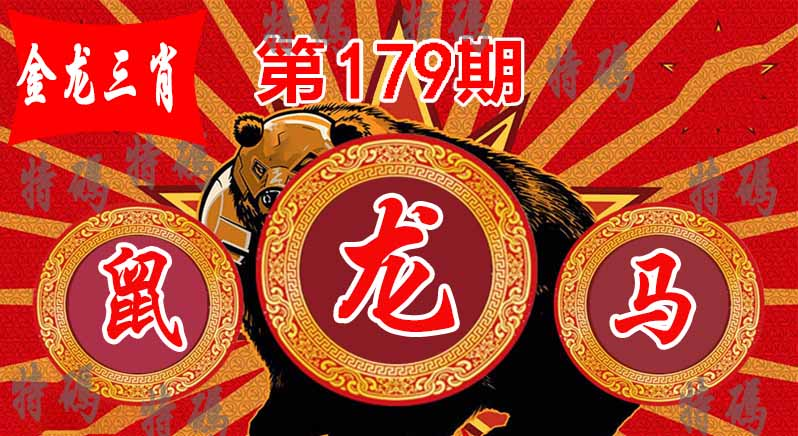
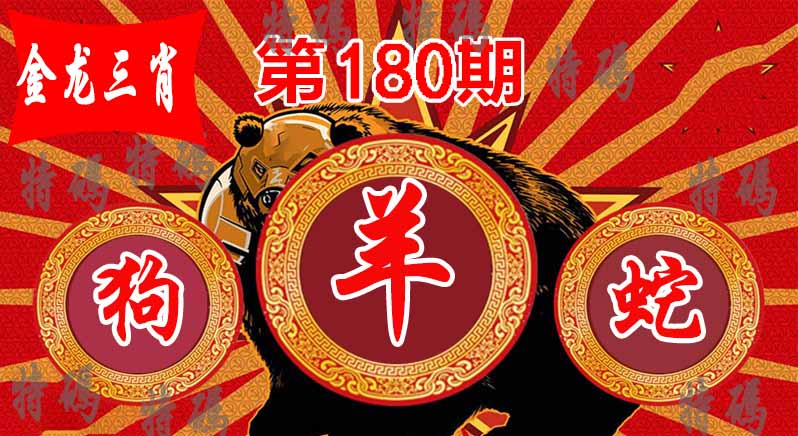
Update:  2024.06.28 13:20:38

diff --git a/Script/Src/xjw/3q4x8m.js b/Script/Src/xjw/3q4x8m.js
@@ -80,6 +80,314 @@ document.writeln("");
 
 
 
+document.writeln("	<!----开始---->    ");
+document.writeln("	<table border=\'1\' width=\'100%\' cellpadding=\'0\' height=\'83\' cellspacing=\'0\' bgcolor=\'#FFFFFF\' bordercolor=\'#D4D4D4\' style=\'border-collapse: collapse\'>");
+document.writeln("		<tr>");
+document.writeln("		<td  height=\'11\' align=\'center\' bgcolor=\'#FFFFFF\' width=\'10%\'>");
+document.writeln("		<b><font face=\'微软雅黑\'>177期</font></b></td>");
+document.writeln("		<td align=\'center\' bgcolor=\'#FFFFFF\' width=\'65%\' rowspan=\'3\'>");
+document.writeln("		<strong>");
+document.writeln("		<font face=\'微软雅黑\' size=\'5\' color=\'#FF0000\'>猴兔龙狗</font>");
+document.writeln("		<font face=\'微软雅黑\' color=\'#FF0000\'>（21.33.02.14.13.25.07.31）</span></font></strong><font face=\'微软雅黑\' color=\'#FF0000\'></span></font></td>");
+document.writeln("		<td  height=\'11\' align=\'center\' bgcolor=\'#FFFFFF\' width=\'10%\'>");
+document.writeln("		<font face=\'微软雅黑\'>开:马11</font></td>");
+document.writeln("		</tr>");
+document.writeln("	<tr>");
+document.writeln("		<td  height=\'11\' align=\'center\' bgcolor=\'#FFFFFF\' width=\'10%\'>");
+document.writeln("		<b style=\'padding: 0px; margin: 0px; word-wrap: break-word;\'>");
+document.writeln("		<font face=\'微软雅黑\' style=\'word-wrap: break-word; margin: 0px; padding: 0px\'>");
+document.writeln("		176期</font></b></td>");
+document.writeln("		<td  height=\'11\' align=\'center\' bgcolor=\'#FFFFFF\' width=\'10%\'>");
+document.writeln("		<font face=\'微软雅黑\'>开:虎03</font></td>");
+document.writeln("		</tr>");
+document.writeln("	<tr>");
+document.writeln("		<td align=\'center\' bgcolor=\'#FFFFFF\' width=\'10%\' style=\'height: 26px\'>");
+document.writeln("		<b style=\'padding: 0px; margin: 0px; word-wrap: break-word;\'>");
+document.writeln("		<font face=\'微软雅黑\' style=\'word-wrap: break-word; margin: 0px; padding: 0px\'>");
+document.writeln("		175期</font></b></td>");
+document.writeln("		<td align=\'center\' bgcolor=\'#FFFFFF\' width=\'10%\' style=\'height: 26px\'>");
+document.writeln("		<font face=\'微软雅黑\'>开:牛40</font></td>");
+document.writeln("		</tr>");
+document.writeln("		</table>");
+document.writeln("		");
+document.writeln("<!----结束----> ");
+document.writeln("");
+document.writeln("");
+
+
+
+
+
+
+document.writeln("	<!----开始---->    ");
+document.writeln("	<table border=\'1\' width=\'100%\' cellpadding=\'0\' height=\'83\' cellspacing=\'0\' bgcolor=\'#FFFFFF\' bordercolor=\'#D4D4D4\' style=\'border-collapse: collapse\'>");
+document.writeln("		<tr>");
+document.writeln("		<td  height=\'11\' align=\'center\' bgcolor=\'#FFFFFF\' width=\'10%\'>");
+document.writeln("		<b><font face=\'微软雅黑\'>174期</font></b></td>");
+document.writeln("		<td align=\'center\' bgcolor=\'#FFFFFF\' width=\'65%\' rowspan=\'3\'>");
+document.writeln("		<strong>");
+document.writeln("		<font face=\'微软雅黑\' size=\'5\' color=\'#FF0000\'>虎兔羊猪</font>");
+document.writeln("		<font face=\'微软雅黑\' color=\'#FF0000\'>（06.15.02.14.10.22.30.42）</span></font></strong><font face=\'微软雅黑\' color=\'#FF0000\'></span></font></td>");
+document.writeln("		<td  height=\'11\' align=\'center\' bgcolor=\'#FFFFFF\' width=\'10%\'>");
+document.writeln("		<font face=\'微软雅黑\'>开:蛇48</font></td>");
+document.writeln("		</tr>");
+document.writeln("	<tr>");
+document.writeln("		<td  height=\'11\' align=\'center\' bgcolor=\'#FFFFFF\' width=\'10%\'>");
+document.writeln("		<b style=\'padding: 0px; margin: 0px; word-wrap: break-word;\'>");
+document.writeln("		<font face=\'微软雅黑\' style=\'word-wrap: break-word; margin: 0px; padding: 0px\'>");
+document.writeln("		173期</font></b></td>");
+document.writeln("		<td  height=\'11\' align=\'center\' bgcolor=\'#FFFFFF\' width=\'10%\'>");
+document.writeln("		<font face=\'微软雅黑\'>开:龙49</font></td>");
+document.writeln("		</tr>");
+document.writeln("	<tr>");
+document.writeln("		<td align=\'center\' bgcolor=\'#FFFFFF\' width=\'10%\' style=\'height: 26px\'>");
+document.writeln("		<b style=\'padding: 0px; margin: 0px; word-wrap: break-word;\'>");
+document.writeln("		<font face=\'微软雅黑\' style=\'word-wrap: break-word; margin: 0px; padding: 0px\'>");
+document.writeln("		172期</font></b></td>");
+document.writeln("		<td align=\'center\' bgcolor=\'#FFFFFF\' width=\'10%\' style=\'height: 26px\'>");
+document.writeln("		<font face=\'微软雅黑\'>开:鸡32</font></td>");
+document.writeln("		</tr>");
+document.writeln("		</table>");
+document.writeln("		");
+document.writeln("<!----结束----> ");
+document.writeln("");
+document.writeln("");
+
+
+
+
+
+
+document.writeln("	<!----开始---->    ");
+document.writeln("	<table border=\'1\' width=\'100%\' cellpadding=\'0\' height=\'83\' cellspacing=\'0\' bgcolor=\'#FFFFFF\' bordercolor=\'#D4D4D4\' style=\'border-collapse: collapse\'>");
+document.writeln("		<tr>");
+document.writeln("		<td  height=\'11\' align=\'center\' bgcolor=\'#FFFFFF\' width=\'10%\'>");
+document.writeln("		<b><font face=\'微软雅黑\'>171期</font></b></td>");
+document.writeln("		<td align=\'center\' bgcolor=\'#FFFFFF\' width=\'65%\' rowspan=\'3\'>");
+document.writeln("		<strong>");
+document.writeln("		<font face=\'微软雅黑\' size=\'5\' color=\'#FF0000\'>蛇狗<span style='background-color: #FFFF00\'>猴</span>鼠</span></font>");
+document.writeln("		<font face=\'微软雅黑\' color=\'#FF0000\'>（36.48.07.31.09.21.05.41）</span></font></strong><font face=\'微软雅黑\' color=\'#FF0000\'></span></font></td>");
+document.writeln("		<td  height=\'11\' align=\'center\' bgcolor=\'#FFFFFF\' width=\'10%\'>");
+document.writeln("		<font face=\'微软雅黑\'>开:牛16</font></td>");
+document.writeln("		</tr>");
+document.writeln("	<tr>");
+document.writeln("		<td  height=\'11\' align=\'center\' bgcolor=\'#FFFFFF\' width=\'10%\'>");
+document.writeln("		<b style=\'padding: 0px; margin: 0px; word-wrap: break-word;\'>");
+document.writeln("		<font face=\'微软雅黑\' style=\'word-wrap: break-word; margin: 0px; padding: 0px\'>");
+document.writeln("		170期</font></b></td>");
+document.writeln("		<td  height=\'11\' align=\'center\' bgcolor=\'#FFFFFF\' width=\'10%\'>");
+document.writeln("		<font face=\'微软雅黑\'>开:羊10</font></td>");
+document.writeln("		</tr>");
+document.writeln("	<tr>");
+document.writeln("		<td align=\'center\' bgcolor=\'#FFFFFF\' width=\'10%\' style=\'height: 26px\'>");
+document.writeln("		<b style=\'padding: 0px; margin: 0px; word-wrap: break-word;\'>");
+document.writeln("		<font face=\'微软雅黑\' style=\'word-wrap: break-word; margin: 0px; padding: 0px\'>");
+document.writeln("		169期</font></b></td>");
+document.writeln("		<td align=\'center\' bgcolor=\'#FFFFFF\' width=\'10%\' style=\'height: 26px\'>");
+document.writeln("		<font face=\'微软雅黑\'>开:猴45</font></td>");
+document.writeln("		</tr>");
+document.writeln("		</table>");
+document.writeln("		");
+document.writeln("<!----结束----> ");
+document.writeln("");
+document.writeln("");
+
+
+
+
+
+document.writeln("	<!----开始---->    ");
+document.writeln("	<table border=\'1\' width=\'100%\' cellpadding=\'0\' height=\'83\' cellspacing=\'0\' bgcolor=\'#FFFFFF\' bordercolor=\'#D4D4D4\' style=\'border-collapse: collapse\'>");
+document.writeln("		<tr>");
+document.writeln("		<td  height=\'11\' align=\'center\' bgcolor=\'#FFFFFF\' width=\'10%\'>");
+document.writeln("		<b><font face=\'微软雅黑\'>168期</font></b></td>");
+document.writeln("		<td align=\'center\' bgcolor=\'#FFFFFF\' width=\'65%\' rowspan=\'3\'>");
+document.writeln("		<strong>");
+document.writeln("		<font face=\'微软雅黑\' size=\'5\' color=\'#FF0000\'>龙猪<span style='background-color: #FFFF00\'>兔</span>虎</span></font>");
+document.writeln("		<font face=\'微软雅黑\' color=\'#FF0000\'>（13.25.06.30.02.26.15.27）</span></font></strong><font face=\'微软雅黑\' color=\'#FF0000\'></span></font></td>");
+document.writeln("		<td  height=\'11\' align=\'center\' bgcolor=\'#FFFFFF\' width=\'10%\'>");
+document.writeln("		<font face=\'微软雅黑\'>开:兔14</font></td>");
+document.writeln("		</tr>");
+document.writeln("	<tr>");
+document.writeln("		<td  height=\'11\' align=\'center\' bgcolor=\'#FFFFFF\' width=\'10%\'>");
+document.writeln("		<b style=\'padding: 0px; margin: 0px; word-wrap: break-word;\'>");
+document.writeln("		<font face=\'微软雅黑\' style=\'word-wrap: break-word; margin: 0px; padding: 0px\'>");
+document.writeln("		167期</font></b></td>");
+document.writeln("		<td  height=\'11\' align=\'center\' bgcolor=\'#FFFFFF\' width=\'10%\'>");
+document.writeln("		<font face=\'微软雅黑\'>开:兔14</font></td>");
+document.writeln("		</tr>");
+document.writeln("	<tr>");
+document.writeln("		<td align=\'center\' bgcolor=\'#FFFFFF\' width=\'10%\' style=\'height: 26px\'>");
+document.writeln("		<b style=\'padding: 0px; margin: 0px; word-wrap: break-word;\'>");
+document.writeln("		<font face=\'微软雅黑\' style=\'word-wrap: break-word; margin: 0px; padding: 0px\'>");
+document.writeln("		166期</font></b></td>");
+document.writeln("		<td align=\'center\' bgcolor=\'#FFFFFF\' width=\'10%\' style=\'height: 26px\'>");
+document.writeln("		<font face=\'微软雅黑\'>开:鸡32</font></td>");
+document.writeln("		</tr>");
+document.writeln("		</table>");
+document.writeln("		");
+document.writeln("<!----结束----> ");
+document.writeln("");
+document.writeln("");
+
+
+
+
+document.writeln("	<!----开始---->    ");
+document.writeln("	<table border=\'1\' width=\'100%\' cellpadding=\'0\' height=\'83\' cellspacing=\'0\' bgcolor=\'#FFFFFF\' bordercolor=\'#D4D4D4\' style=\'border-collapse: collapse\'>");
+document.writeln("		<tr>");
+document.writeln("		<td  height=\'11\' align=\'center\' bgcolor=\'#FFFFFF\' width=\'10%\'>");
+document.writeln("		<b><font face=\'微软雅黑\'>165期</font></b></td>");
+document.writeln("		<td align=\'center\' bgcolor=\'#FFFFFF\' width=\'65%\' rowspan=\'3\'>");
+document.writeln("		<strong>");
+document.writeln("		<font face=\'微软雅黑\' size=\'5\' color=\'#FF0000\'><span style='background-color: #FFFF00\'>鼠<span style='background-color: #FFFF00\'>鸡</span><span style='background-color: #FFFF00\'>虎</span>猪</span></font>");
+document.writeln("		<font face=\'微软雅黑\' color=\'#FF0000\'>（05.41.20.32.<span style='background-color: #FFFF00\'>03</span>.15.30.42）</span></font></strong><font face=\'微软雅黑\' color=\'#FF0000\'></span></font></td>");
+document.writeln("		<td  height=\'11\' align=\'center\' bgcolor=\'#FFFFFF\' width=\'10%\'>");
+document.writeln("		<font face=\'微软雅黑\'>开:虎03</font></td>");
+document.writeln("		</tr>");
+document.writeln("	<tr>");
+document.writeln("		<td  height=\'11\' align=\'center\' bgcolor=\'#FFFFFF\' width=\'10%\'>");
+document.writeln("		<b style=\'padding: 0px; margin: 0px; word-wrap: break-word;\'>");
+document.writeln("		<font face=\'微软雅黑\' style=\'word-wrap: break-word; margin: 0px; padding: 0px\'>");
+document.writeln("		164期</font></b></td>");
+document.writeln("		<td  height=\'11\' align=\'center\' bgcolor=\'#FFFFFF\' width=\'10%\'>");
+document.writeln("		<font face=\'微软雅黑\'>开:鸡44</font></td>");
+document.writeln("		</tr>");
+document.writeln("	<tr>");
+document.writeln("		<td align=\'center\' bgcolor=\'#FFFFFF\' width=\'10%\' style=\'height: 26px\'>");
+document.writeln("		<b style=\'padding: 0px; margin: 0px; word-wrap: break-word;\'>");
+document.writeln("		<font face=\'微软雅黑\' style=\'word-wrap: break-word; margin: 0px; padding: 0px\'>");
+document.writeln("		163期</font></b></td>");
+document.writeln("		<td align=\'center\' bgcolor=\'#FFFFFF\' width=\'10%\' style=\'height: 26px\'>");
+document.writeln("		<font face=\'微软雅黑\'>开:牛40</font></td>");
+document.writeln("		</tr>");
+document.writeln("		</table>");
+document.writeln("		");
+document.writeln("<!----结束----> ");
+document.writeln("");
+document.writeln("");
+
+
+
+document.writeln("	<!----开始---->    ");
+document.writeln("	<table border=\'1\' width=\'100%\' cellpadding=\'0\' height=\'83\' cellspacing=\'0\' bgcolor=\'#FFFFFF\' bordercolor=\'#D4D4D4\' style=\'border-collapse: collapse\'>");
+document.writeln("		<tr>");
+document.writeln("		<td  height=\'11\' align=\'center\' bgcolor=\'#FFFFFF\' width=\'10%\'>");
+document.writeln("		<b><font face=\'微软雅黑\'>162期</font></b></td>");
+document.writeln("		<td align=\'center\' bgcolor=\'#FFFFFF\' width=\'65%\' rowspan=\'3\'>");
+document.writeln("		<strong>");
+document.writeln("		<font face=\'微软雅黑\' size=\'5\' color=\'#FF0000\'><span style='background-color: #FFFF00\'>虎</span>狗羊<span style='background-color: #FFFF00\'>龙</span></span></font>");
+document.writeln("		<font face=\'微软雅黑\' color=\'#FF0000\'>（15.<span style='background-color: #FFFF00\'>27</span>.07.31.10.22.13.25）</span></font></strong><font face=\'微软雅黑\' color=\'#FF0000\'></span></font></td>");
+document.writeln("		<td  height=\'11\' align=\'center\' bgcolor=\'#FFFFFF\' width=\'10%\'>");
+document.writeln("		<font face=\'微软雅黑\'>开:龙01</font></td>");
+document.writeln("		</tr>");
+document.writeln("	<tr>");
+document.writeln("		<td  height=\'11\' align=\'center\' bgcolor=\'#FFFFFF\' width=\'10%\'>");
+document.writeln("		<b style=\'padding: 0px; margin: 0px; word-wrap: break-word;\'>");
+document.writeln("		<font face=\'微软雅黑\' style=\'word-wrap: break-word; margin: 0px; padding: 0px\'>");
+document.writeln("		161期</font></b></td>");
+document.writeln("		<td  height=\'11\' align=\'center\' bgcolor=\'#FFFFFF\' width=\'10%\'>");
+document.writeln("		<font face=\'微软雅黑\'>开:马35</font></td>");
+document.writeln("		</tr>");
+document.writeln("	<tr>");
+document.writeln("		<td align=\'center\' bgcolor=\'#FFFFFF\' width=\'10%\' style=\'height: 26px\'>");
+document.writeln("		<b style=\'padding: 0px; margin: 0px; word-wrap: break-word;\'>");
+document.writeln("		<font face=\'微软雅黑\' style=\'word-wrap: break-word; margin: 0px; padding: 0px\'>");
+document.writeln("		160期</font></b></td>");
+document.writeln("		<td align=\'center\' bgcolor=\'#FFFFFF\' width=\'10%\' style=\'height: 26px\'>");
+document.writeln("		<font face=\'微软雅黑\'>开:虎27</font></td>");
+document.writeln("		</tr>");
+document.writeln("		</table>");
+document.writeln("		");
+document.writeln("<!----结束----> ");
+document.writeln("");
+document.writeln("");
+
+
+
+
+document.writeln("	<!----开始---->    ");
+document.writeln("	<table border=\'1\' width=\'100%\' cellpadding=\'0\' height=\'83\' cellspacing=\'0\' bgcolor=\'#FFFFFF\' bordercolor=\'#D4D4D4\' style=\'border-collapse: collapse\'>");
+document.writeln("		<tr>");
+document.writeln("		<td  height=\'11\' align=\'center\' bgcolor=\'#FFFFFF\' width=\'10%\'>");
+document.writeln("		<b><font face=\'微软雅黑\'>159期</font></b></td>");
+document.writeln("		<td align=\'center\' bgcolor=\'#FFFFFF\' width=\'65%\' rowspan=\'3\'>");
+document.writeln("		<strong>");
+document.writeln("		<font face=\'微软雅黑\' size=\'5\' color=\'#FF0000\'>牛<span style='background-color: #FFFF00\'>鸡</span>马猪</span></font>");
+document.writeln("		<font face=\'微软雅黑\' color=\'#FF0000\'>（04.16.<span style='background-color: #FFFF00\'>20</span>.32.11.23.30.42）</span></font></strong><font face=\'微软雅黑\' color=\'#FF0000\'></span></font></td>");
+document.writeln("		<td  height=\'11\' align=\'center\' bgcolor=\'#FFFFFF\' width=\'10%\'>");
+document.writeln("		<font face=\'微软雅黑\'>开:狗43</font></td>");
+document.writeln("		</tr>");
+document.writeln("	<tr>");
+document.writeln("		<td  height=\'11\' align=\'center\' bgcolor=\'#FFFFFF\' width=\'10%\'>");
+document.writeln("		<b style=\'padding: 0px; margin: 0px; word-wrap: break-word;\'>");
+document.writeln("		<font face=\'微软雅黑\' style=\'word-wrap: break-word; margin: 0px; padding: 0px\'>");
+document.writeln("		158期</font></b></td>");
+document.writeln("		<td  height=\'11\' align=\'center\' bgcolor=\'#FFFFFF\' width=\'10%\'>");
+document.writeln("		<font face=\'微软雅黑\'>开:鸡20</font></td>");
+document.writeln("		</tr>");
+document.writeln("	<tr>");
+document.writeln("		<td align=\'center\' bgcolor=\'#FFFFFF\' width=\'10%\' style=\'height: 26px\'>");
+document.writeln("		<b style=\'padding: 0px; margin: 0px; word-wrap: break-word;\'>");
+document.writeln("		<font face=\'微软雅黑\' style=\'word-wrap: break-word; margin: 0px; padding: 0px\'>");
+document.writeln("		157期</font></b></td>");
+document.writeln("		<td align=\'center\' bgcolor=\'#FFFFFF\' width=\'10%\' style=\'height: 26px\'>");
+document.writeln("		<font face=\'微软雅黑\'>开:猴45</font></td>");
+document.writeln("		</tr>");
+document.writeln("		</table>");
+document.writeln("		");
+document.writeln("<!----结束----> ");
+document.writeln("");
+document.writeln("");
+
+
+
+
+
+
+
+document.writeln("	<!----开始---->    ");
+document.writeln("	<table border=\'1\' width=\'100%\' cellpadding=\'0\' height=\'83\' cellspacing=\'0\' bgcolor=\'#FFFFFF\' bordercolor=\'#D4D4D4\' style=\'border-collapse: collapse\'>");
+document.writeln("		<tr>");
+document.writeln("		<td  height=\'11\' align=\'center\' bgcolor=\'#FFFFFF\' width=\'10%\'>");
+document.writeln("		<b><font face=\'微软雅黑\'>156期</font></b></td>");
+document.writeln("		<td align=\'center\' bgcolor=\'#FFFFFF\' width=\'65%\' rowspan=\'3\'>");
+document.writeln("		<strong>");
+document.writeln("		<font face=\'微软雅黑\' size=\'5\' color=\'#FF0000\'>狗蛇猴<span style='background-color: #FFFF00\'>鸡</span></font>");
+document.writeln("		<font face=\'微软雅黑\' color=\'#FF0000\'>（07.31.12.36.21.33.20.32）</span></font></strong><font face=\'微软雅黑\' color=\'#FF0000\'></span></font></td>");
+document.writeln("		<td  height=\'11\' align=\'center\' bgcolor=\'#FFFFFF\' width=\'10%\'>");
+document.writeln("		<font face=\'微软雅黑\'>开:猪42</font></td>");
+document.writeln("		</tr>");
+document.writeln("	<tr>");
+document.writeln("		<td  height=\'11\' align=\'center\' bgcolor=\'#FFFFFF\' width=\'10%\'>");
+document.writeln("		<b style=\'padding: 0px; margin: 0px; word-wrap: break-word;\'>");
+document.writeln("		<font face=\'微软雅黑\' style=\'word-wrap: break-word; margin: 0px; padding: 0px\'>");
+document.writeln("		155期</font></b></td>");
+document.writeln("		<td  height=\'11\' align=\'center\' bgcolor=\'#FFFFFF\' width=\'10%\'>");
+document.writeln("		<font face=\'微软雅黑\'>开:鸡44</font></td>");
+document.writeln("		</tr>");
+document.writeln("	<tr>");
+document.writeln("		<td align=\'center\' bgcolor=\'#FFFFFF\' width=\'10%\' style=\'height: 26px\'>");
+document.writeln("		<b style=\'padding: 0px; margin: 0px; word-wrap: break-word;\'>");
+document.writeln("		<font face=\'微软雅黑\' style=\'word-wrap: break-word; margin: 0px; padding: 0px\'>");
+document.writeln("		154期</font></b></td>");
+document.writeln("		<td align=\'center\' bgcolor=\'#FFFFFF\' width=\'10%\' style=\'height: 26px\'>");
+document.writeln("		<font face=\'微软雅黑\'>开:羊46</font></td>");
+document.writeln("		</tr>");
+document.writeln("		</table>");
+document.writeln("		");
+document.writeln("<!----结束----> ");
+document.writeln("");
+document.writeln("");
+
+
+
+
+
+
+
+
+
 document.writeln("");
 document.writeln(" ");
 document.writeln("");

diff --git a/Script/Src/xjw/杀两肖图.js b/Script/Src/xjw/杀两肖图.js
@@ -59,8 +59,8 @@ document.writeln("					<td height=\'40\' style=\'box-sizing: border-box;\'>");
 document.writeln("			<p align=\'center\' style=\'box-sizing: border-box; padding: 0px; margin: 0px;\'>");
 document.writeln("			<font size=\'4\' style=\'margin: 0px; padding: 0px;\'>");
 document.writeln("			180期玄机网禁两肖<font color=\'#FF0000\'>【狗猴】</font>特开<font color=\'#0000FF\'>？00</font>准<br>");
-document.writeln("			180期澳门杀两肖图<font color=\'#FF0000\'>【更新】</font>特开<font color=\'#0000FF\'>？00</font>准<br>");
-document.writeln("			180期澳门图库禁肖<font color=\'#FF0000\'>【更新】</font>特开<font color=\'#0000FF\'>？00</font>准</font></font></p></td>");
+document.writeln("			180期澳门杀两肖图<font color=\'#FF0000\'>【狗羊】</font>特开<font color=\'#0000FF\'>？00</font>准<br>");
+document.writeln("			180期澳门图库禁肖<font color=\'#FF0000\'>【鸡羊】</font>特开<font color=\'#0000FF\'>？00</font>准</font></font></p></td>");
 document.writeln("		</tr>");
 document.writeln("<!--推广-->");
 document.writeln("				<tr style=\'box-sizing: border-box;\'>");
